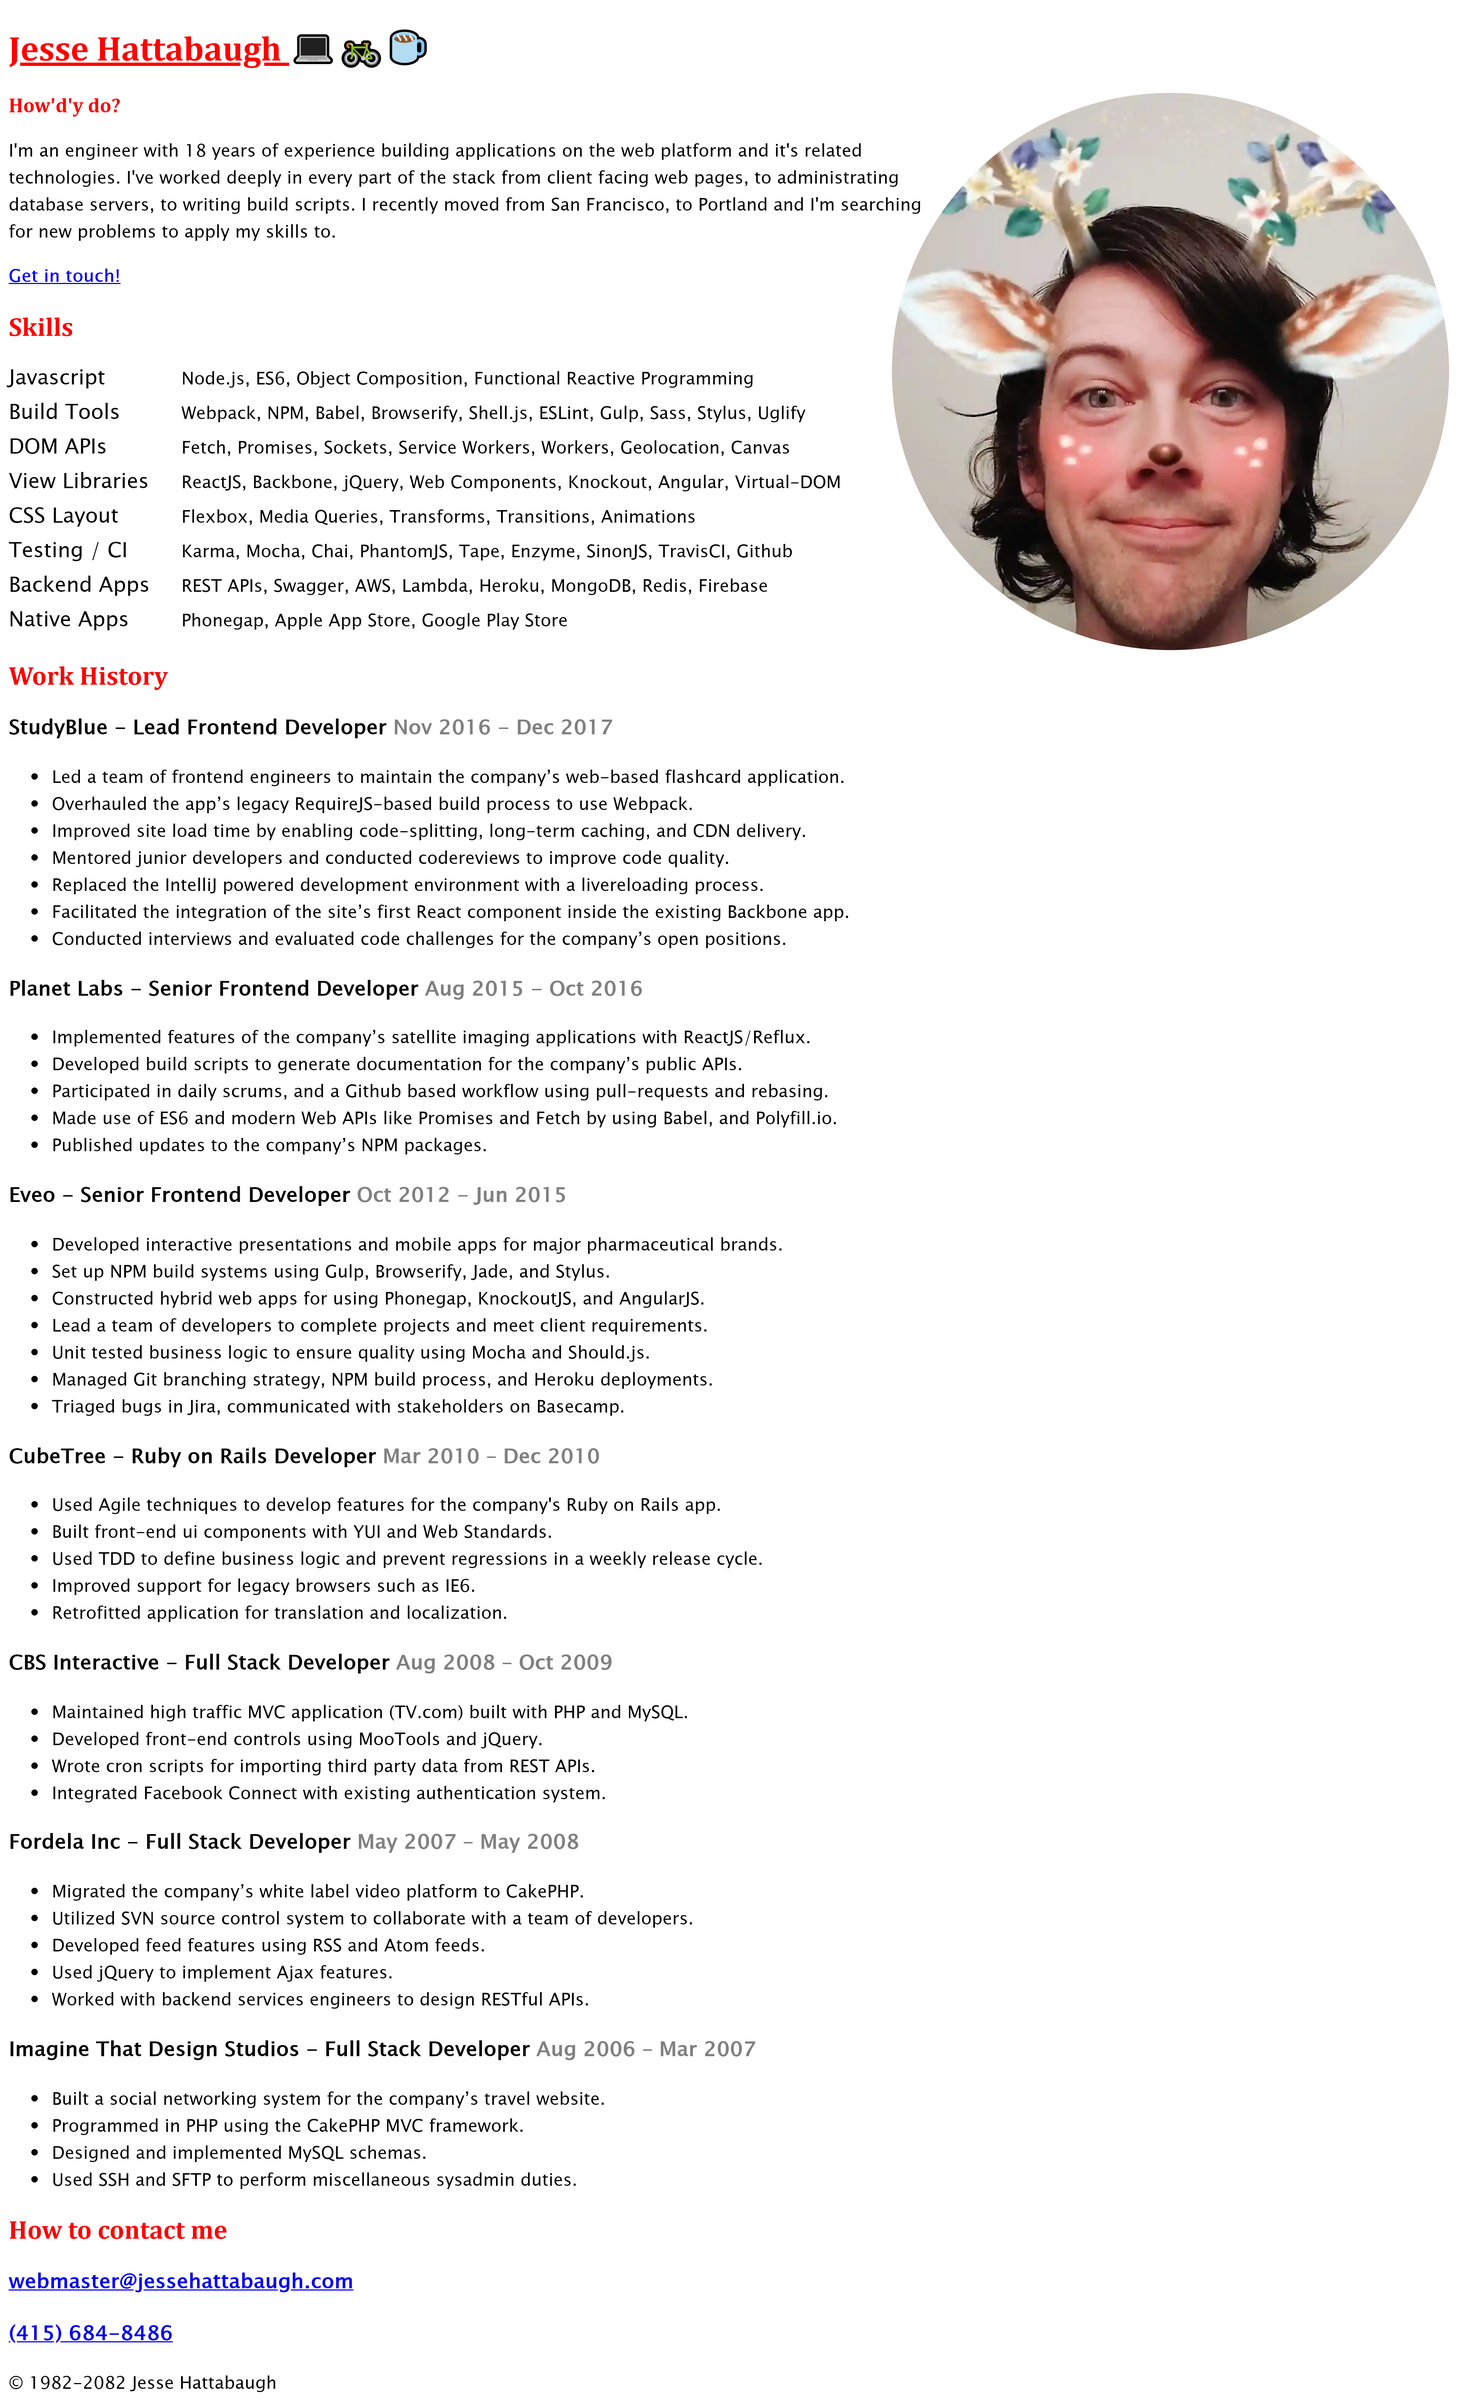
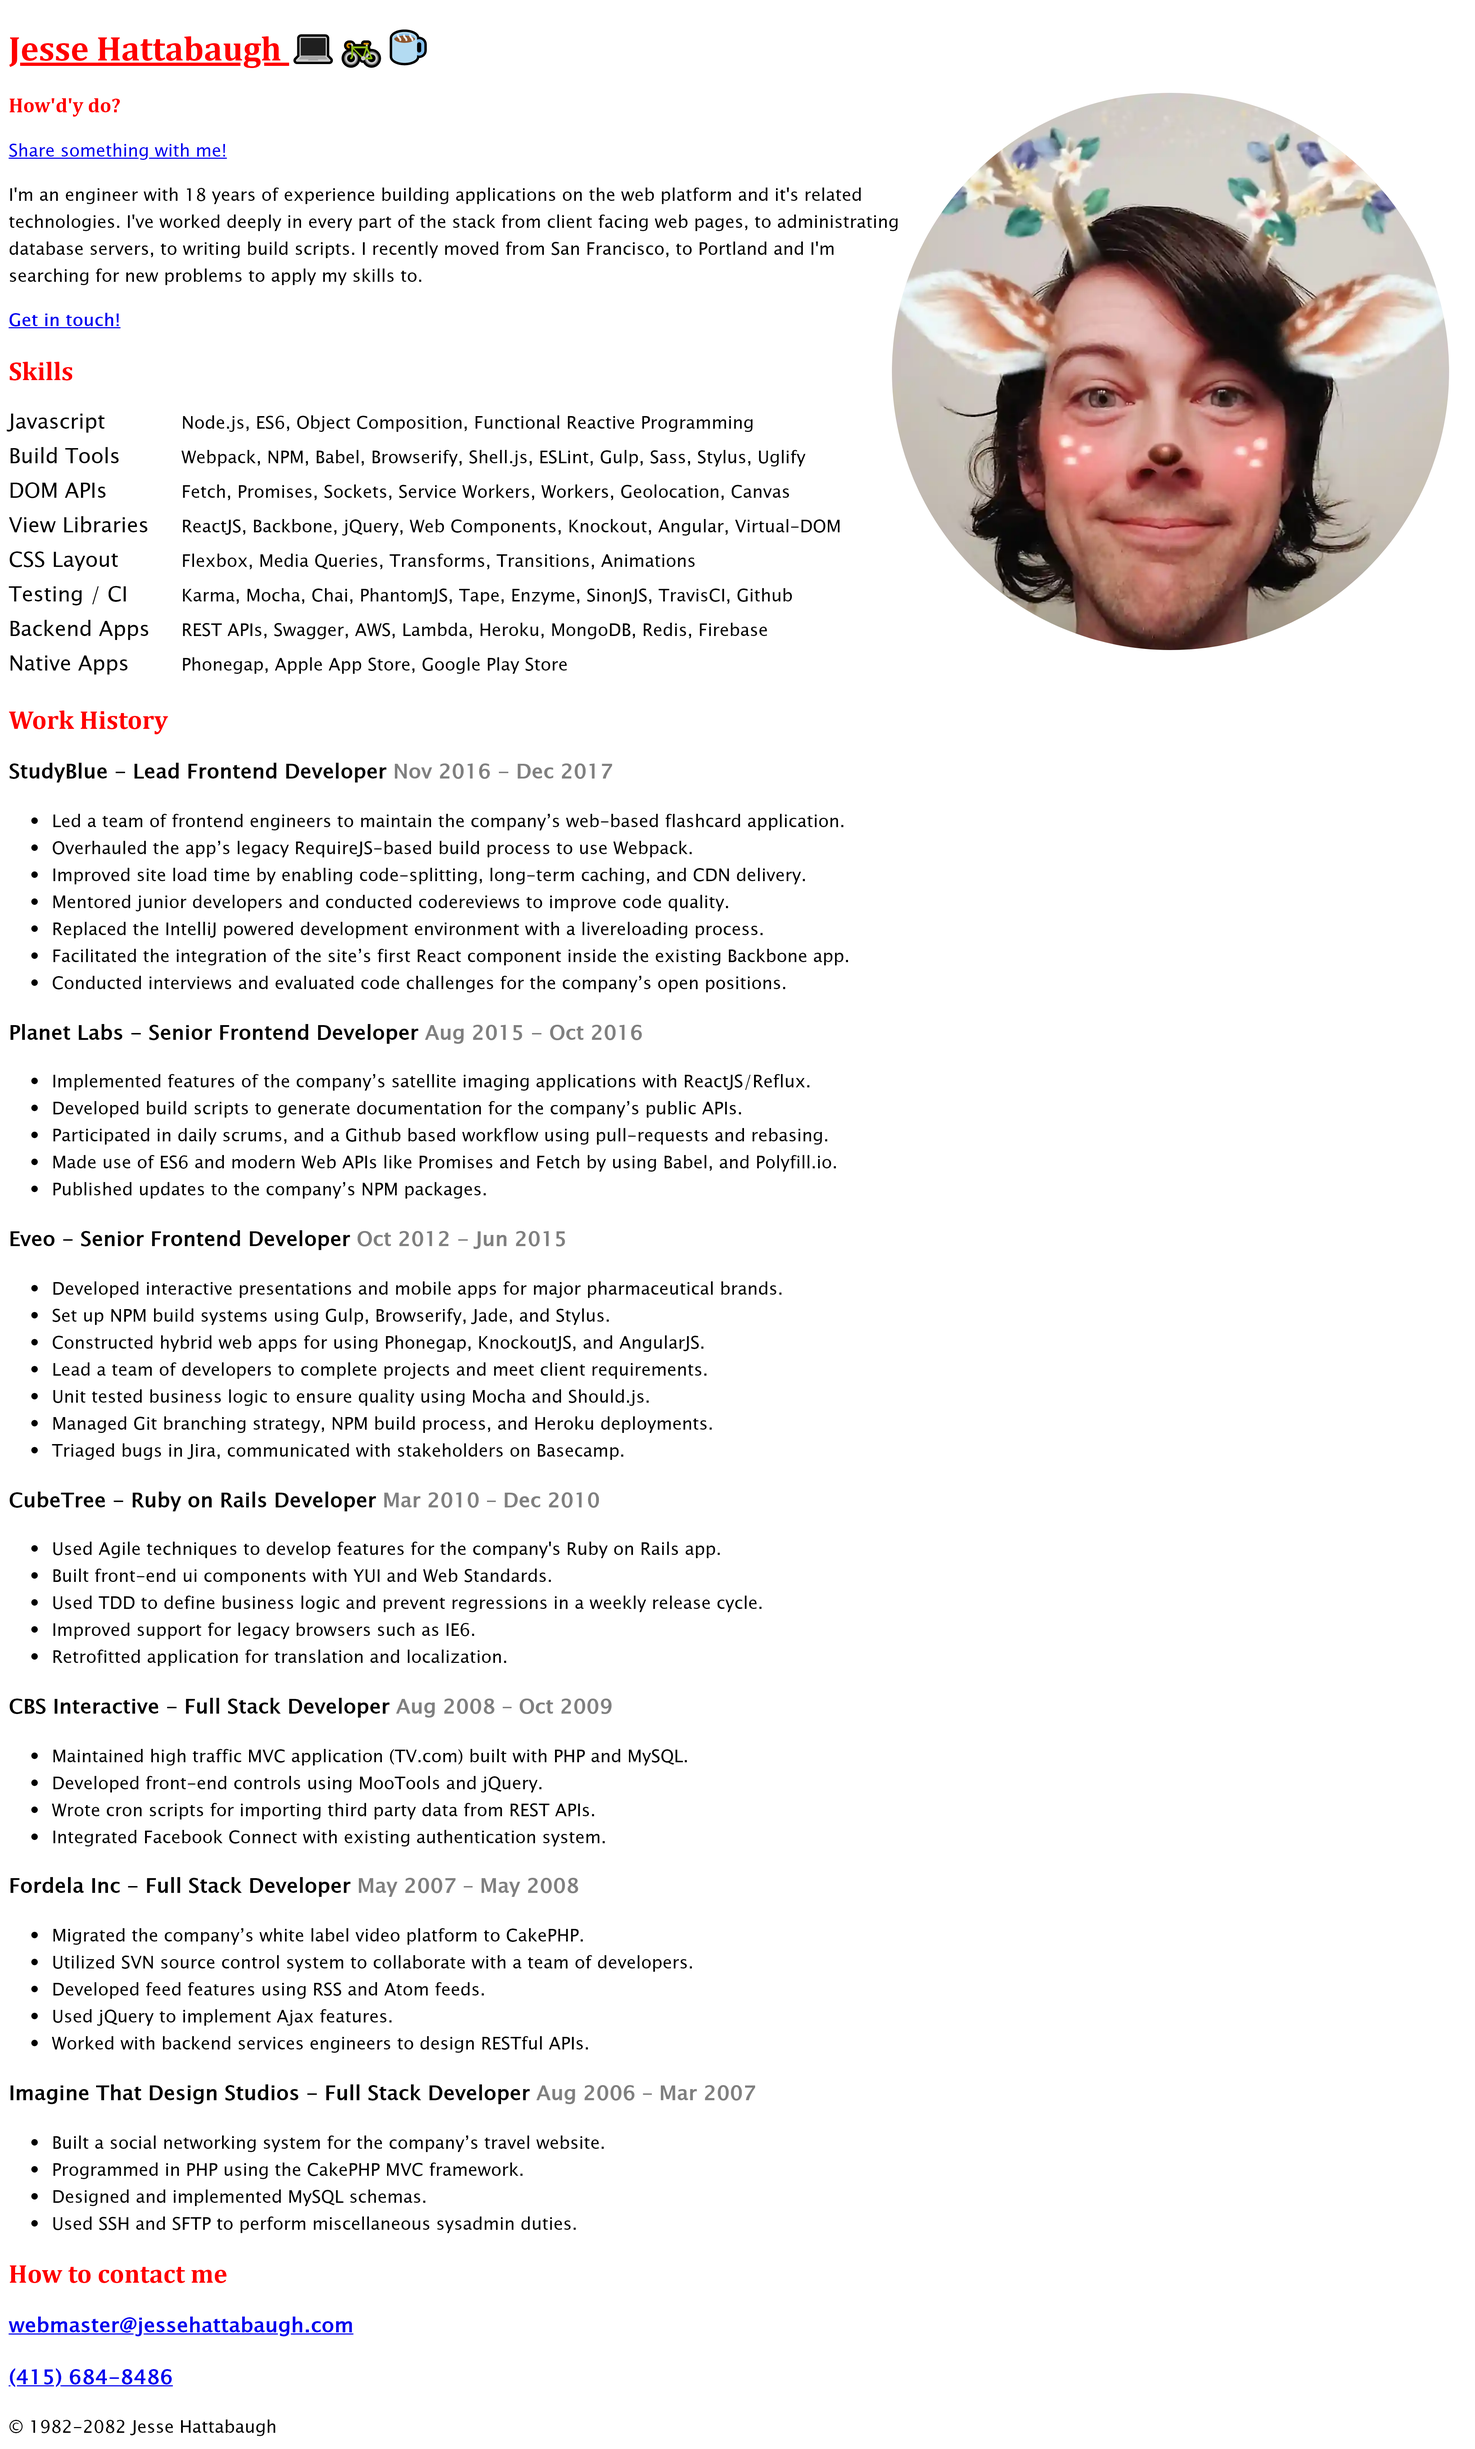
stuff I did last time I worked on this

diff --git a/home/src/pages/index.js b/home/src/pages/index.js
@@ -3,6 +3,8 @@ import React from 'react';
 import bigImg from '../jesse975.webp';
 import smallImg from '../jesse512.png';
 
+import {Link} from 'gatsby';
+
 export default () => (
 	<>
 		<header>
@@ -28,6 +30,8 @@ export default () => (
 
 			<section>
 				<h1>How'd'y do?</h1>
+
+				<Link to="/share">Share something with me!</Link>
 
 				<p>
 					I'm an engineer with 18 years of experience building

diff --git a/lgtm.js b/lgtm.js
@@ -5,7 +5,7 @@ const fs = require('fs-extra');
 module.exports = lgtm;
 
 const looksSameOpts = {
-	highlightColor: '#ff00ff',
+	highlightColor: '#00ff00',
 	ignoreAntialiasing: true,
 	ignoreCaret: true,
 	//strict: true,
